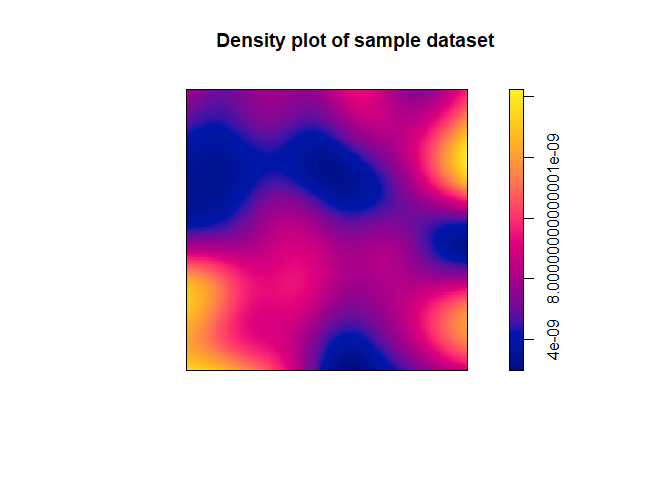
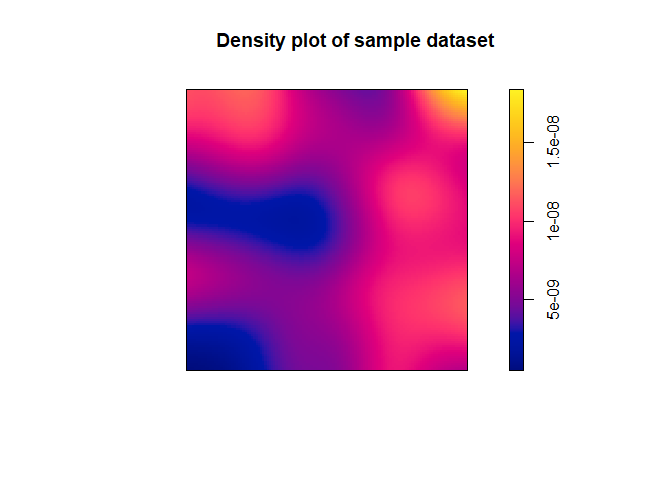
KDE Update

Changed region(s): [[0.2812, 0.1875, 0.7188, 0.7812], [0.8125, 0.2188, 0.8438, 0.75]]

diff --git a/KDE.md b/KDE.md
@@ -11,7 +11,6 @@ library(spatstat)
 library(raster)
 ```
 
-
 Create SpatialPolygon object of ~ 200 km^2. Generate 50 random points within the polygon and assign count values randomly drawn from a given distribution. Create a dataframe of point coordinates and count. Duplicate rows according to count values, preserving coordinate columns.
 
 ``` r
@@ -71,7 +70,7 @@ sp.dens_r2 <- rasterRescale(sp.dens_r)
 Apply threshold by formatting values below a given value to be 0.
 
 ``` r
-sp.dens_r2[sp.dens_r2<=0.4]=0
+sp.dens_r2[sp.dens_r2<=0.25]=0
 plot(sp.dens_r2)
 ```
 
@@ -84,7 +83,7 @@ rasterRescale.Set<-function(r, rmin, rmax){
   ((r-rmin)/(rmax-rmin))
 }
 
-sp.dens_r3 <- rasterRescale.Set(sp.dens_r2, 0.41, 1)
+sp.dens_r3 <- rasterRescale.Set(sp.dens_r2, 0.26, 1)
 sp.dens_r3[sp.dens_r3<=0]=0
 plot(sp.dens_r3)
 ```
